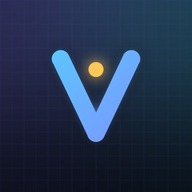
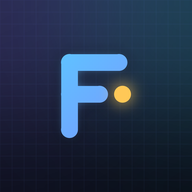
Bytt navn til Fasit
Appen heter nå Fasit i tittel, manifest, ikon og tekster. Ikonet viser en F
med en gul prikk. Eksempellenken for invitasjon peker ikke lenger på noe domene.

Changed region(s): [[0.25, 0.25, 0.75, 0.75]]

diff --git a/index.html b/index.html
@@ -3,7 +3,7 @@
 <head>
   <meta charset="utf-8">
   <meta name="viewport" content="width=device-width, initial-scale=1, viewport-fit=cover">
-  <title>Vennebets</title>
+  <title>Fasit</title>
   <meta name="description" content="Veddemål og spådommer i vennegjengen. Appen er dommer og regnskapsfører.">
   <meta name="theme-color" content="#070A12">
   <meta name="color-scheme" content="dark">
@@ -16,7 +16,7 @@
   <!-- iPhone: fullskjerm fra hjemskjermen, mørk statuslinje over appen -->
   <meta name="apple-mobile-web-app-capable" content="yes">
   <meta name="apple-mobile-web-app-status-bar-style" content="black-translucent">
-  <meta name="apple-mobile-web-app-title" content="Vennebets">
+  <meta name="apple-mobile-web-app-title" content="Fasit">
   <link rel="apple-touch-icon" href="icons/apple-touch-icon.png">
   <meta name="format-detection" content="telephone=no">
 
@@ -26,7 +26,7 @@
   <link rel="stylesheet" href="css/app.css">
   <script>
     // Sett riktig fargetema før første tegning, så skjermen ikke blinker.
-    try { if ((JSON.parse(localStorage.getItem("vennebets-visning")) || {}).skin === "barbie") document.documentElement.setAttribute("data-skin", "barbie"); } catch (e) {}
+    try { if ((JSON.parse(localStorage.getItem("fasit-visning")) || {}).skin === "barbie") document.documentElement.setAttribute("data-skin", "barbie"); } catch (e) {}
   </script>
   <script type="module" src="js/app.js"></script>
 </head>
@@ -45,6 +45,6 @@
   </div>
 
   <div class="toast" id="toast" role="status" aria-live="polite"></div>
-  <noscript><p style="padding:24px">Vennebets trenger JavaScript.</p></noscript>
+  <noscript><p style="padding:24px">Fasit trenger JavaScript.</p></noscript>
 </body>
 </html>

diff --git a/js/views.js b/js/views.js
@@ -178,7 +178,7 @@ export function viewList() {
     (g.example ? '<button class="btn btn-ghost btn-small" data-act="invite" aria-expanded="' + ui.inviteOpen + '">Inviter</button>' : "") + "</div>";
   if (g.example && ui.inviteOpen) {
     html += '<div class="card"><h3>Inviter med lenke</h3><p class="note">Del lenken i gruppechatten. Den som åpner den, blir med i gruppa. (Eksempellenke. Deling kommer når appen får en server.)</p>' +
-      '<div class="invite"><input id="invite-link" type="text" readonly value="vennebets.no/bli-med/gjengen-k7f2"><button class="btn btn-ghost btn-small" data-act="copy">Kopier</button></div></div>';
+      '<div class="invite"><input id="invite-link" type="text" readonly value="…/bli-med/gjengen-k7f2"><button class="btn btn-ghost btn-small" data-act="copy">Kopier</button></div></div>';
   }
   if (!g.bets.length) return html + '<div class="card"><p>Ingen bets ennå.</p><p class="note">Trykk «Ny bet» nederst for å lage den første.</p></div>';
   const byTab = {};

diff --git a/js/store.js b/js/store.js
@@ -2,10 +2,10 @@
 // Eksempelgruppa «Gjengen» har oppdiktede navn og bets. Egne grupper kan lages i gruppemenyen.
 import { D, H, hms, deepMerge } from "./util.js";
 
-const LS_DATA = "vennebets-data-v1";
-const LS_GROUP = "vennebets-gruppe";
-const LS_ME = "vennebets-hvem";
-const LS_PREFS = "vennebets-visning";
+const LS_DATA = "fasit-data-v1";
+const LS_GROUP = "fasit-gruppe";
+const LS_ME = "fasit-hvem";
+const LS_PREFS = "fasit-visning";
 export const EXAMPLE_ID = "gjengen";
 
 function lsGet(k) { try { return localStorage.getItem(k); } catch (e) { return null; } }

diff --git a/js/app.js b/js/app.js
@@ -165,7 +165,7 @@ document.addEventListener("click", (e) => {
     case "copy": {
       const inp = document.getElementById("invite-link");
       const fallback = () => { inp.focus(); inp.select(); el.textContent = "Marker og kopier"; };
-      try { navigator.clipboard.writeText("https://" + inp.value).then(() => { el.textContent = "Kopiert"; }, fallback); } catch (err) { fallback(); }
+      try { navigator.clipboard.writeText(inp.value).then(() => { el.textContent = "Kopiert"; }, fallback); } catch (err) { fallback(); }
       break;
     }
     case "expand":

diff --git a/css/app.css b/css/app.css
@@ -1,4 +1,4 @@
-/* Vennebets: én smal mobilkolonne (maks 460px) på et mørkt «kontrollrom»: svakt rutenett og lys i kantene,
+/* Fasit: én smal mobilkolonne (maks 460px) på et mørkt «kontrollrom»: svakt rutenett og lys i kantene,
    glasskort med tynne lysende kanter, fast fanelinje nederst. Bevisst bare mørkt tema.
    To fargetema velges per person: Ken (turkis og lilla) og Barbie (plomme, rosa og lilla). */
 :root {

diff --git a/sw.js b/sw.js
@@ -1,8 +1,8 @@
-// Service worker: gjør at Vennebets starter uten nett.
+// Service worker: gjør at Fasit starter uten nett.
 // Når du endrer filer i appen, øk VERSION så telefonene henter den nye versjonen.
 const VERSION = "v1";
-const CACHE = "vennebets-" + VERSION;
-const FONT_CACHE = "vennebets-fonter";
+const CACHE = "fasit-" + VERSION;
+const FONT_CACHE = "fasit-fonter";
 
 const SHELL = [
   "./",

diff --git a/tools/make_icons.py b/tools/make_icons.py
@@ -1,4 +1,4 @@
-"""Lager app-ikonene for Vennebets (PNG) med Pillow. Kjøres: python make_icons.py <utmappe>"""
+"""Lager app-ikonene for Fasit (PNG) med Pillow. Kjøres: python make_icons.py <utmappe>"""
 import sys, os
 from PIL import Image, ImageDraw, ImageFilter, ImageChops
 
@@ -57,23 +57,23 @@ def mark(scale, accent, accent2, dot):
     d = ImageDraw.Draw(m)
     w = S * scale
     x0 = (S - w) / 2
-    y0 = S * 0.5 - w * 0.42
-    stroke = w * 0.2
-    left_top = (x0 + stroke * 0.5, y0)
-    right_top = (x0 + w - stroke * 0.5, y0)
-    bottom = (S / 2, y0 + w * 0.84)
-    d.line([left_top, bottom], fill=255, width=int(stroke), joint="curve")
-    d.line([right_top, bottom], fill=255, width=int(stroke), joint="curve")
+    stroke = w * 0.19
+    # En «F» med runde ender: loddrett strek, lang toppstrek og kortere midtstrek.
+    xl = S / 2 - w * 0.3
+    yt, yb, ym = S / 2 - w * 0.38, S / 2 + w * 0.38, S / 2 - w * 0.02
+    segs = [((xl, yt), (xl, yb)), ((xl, yt), (xl + w * 0.56, yt)), ((xl, ym), (xl + w * 0.34, ym))]
     r = stroke / 2
-    for (cx, cy) in (left_top, right_top, bottom):
-        d.ellipse([cx - r, cy - r, cx + r, cy + r], fill=255)
+    for a, b in segs:
+        d.line([a, b], fill=255, width=int(stroke))
+        for (cx, cy) in (a, b):
+            d.ellipse([cx - r, cy - r, cx + r, cy + r], fill=255)
     glow = gradient_fill(m.filter(ImageFilter.GaussianBlur(S * 0.03)), accent, accent2)
     glow.putalpha(ImageChops.multiply(glow.getchannel("A"), Image.new("L", (S, S), 150)))
     body = gradient_fill(m, accent, accent2)
     layer = Image.alpha_composite(glow, body)
-    # prikk øverst til høyre for V-en
-    dr = stroke * 0.42
-    dcx, dcy = S / 2, y0 + w * 0.12
+    # gul «fasit»-prikk på linje med midtstreken
+    dr = stroke * 0.5
+    dcx, dcy = xl + w * 0.6, ym
     dm = Image.new("L", (S, S), 0)
     ImageDraw.Draw(dm).ellipse([dcx - dr, dcy - dr, dcx + dr, dcy + dr], fill=255)
     dglow = Image.new("RGBA", (S, S), dot + (0,))

diff --git a/README.md b/README.md
@@ -1,4 +1,4 @@
-# Vennebets
+# Fasit
 
 Veddemål og spådommer i vennegjengen. Appen er dommer og regnskapsfører. Ingen penger går gjennom appen, og gjeld gjøres opp utenfor.
 
